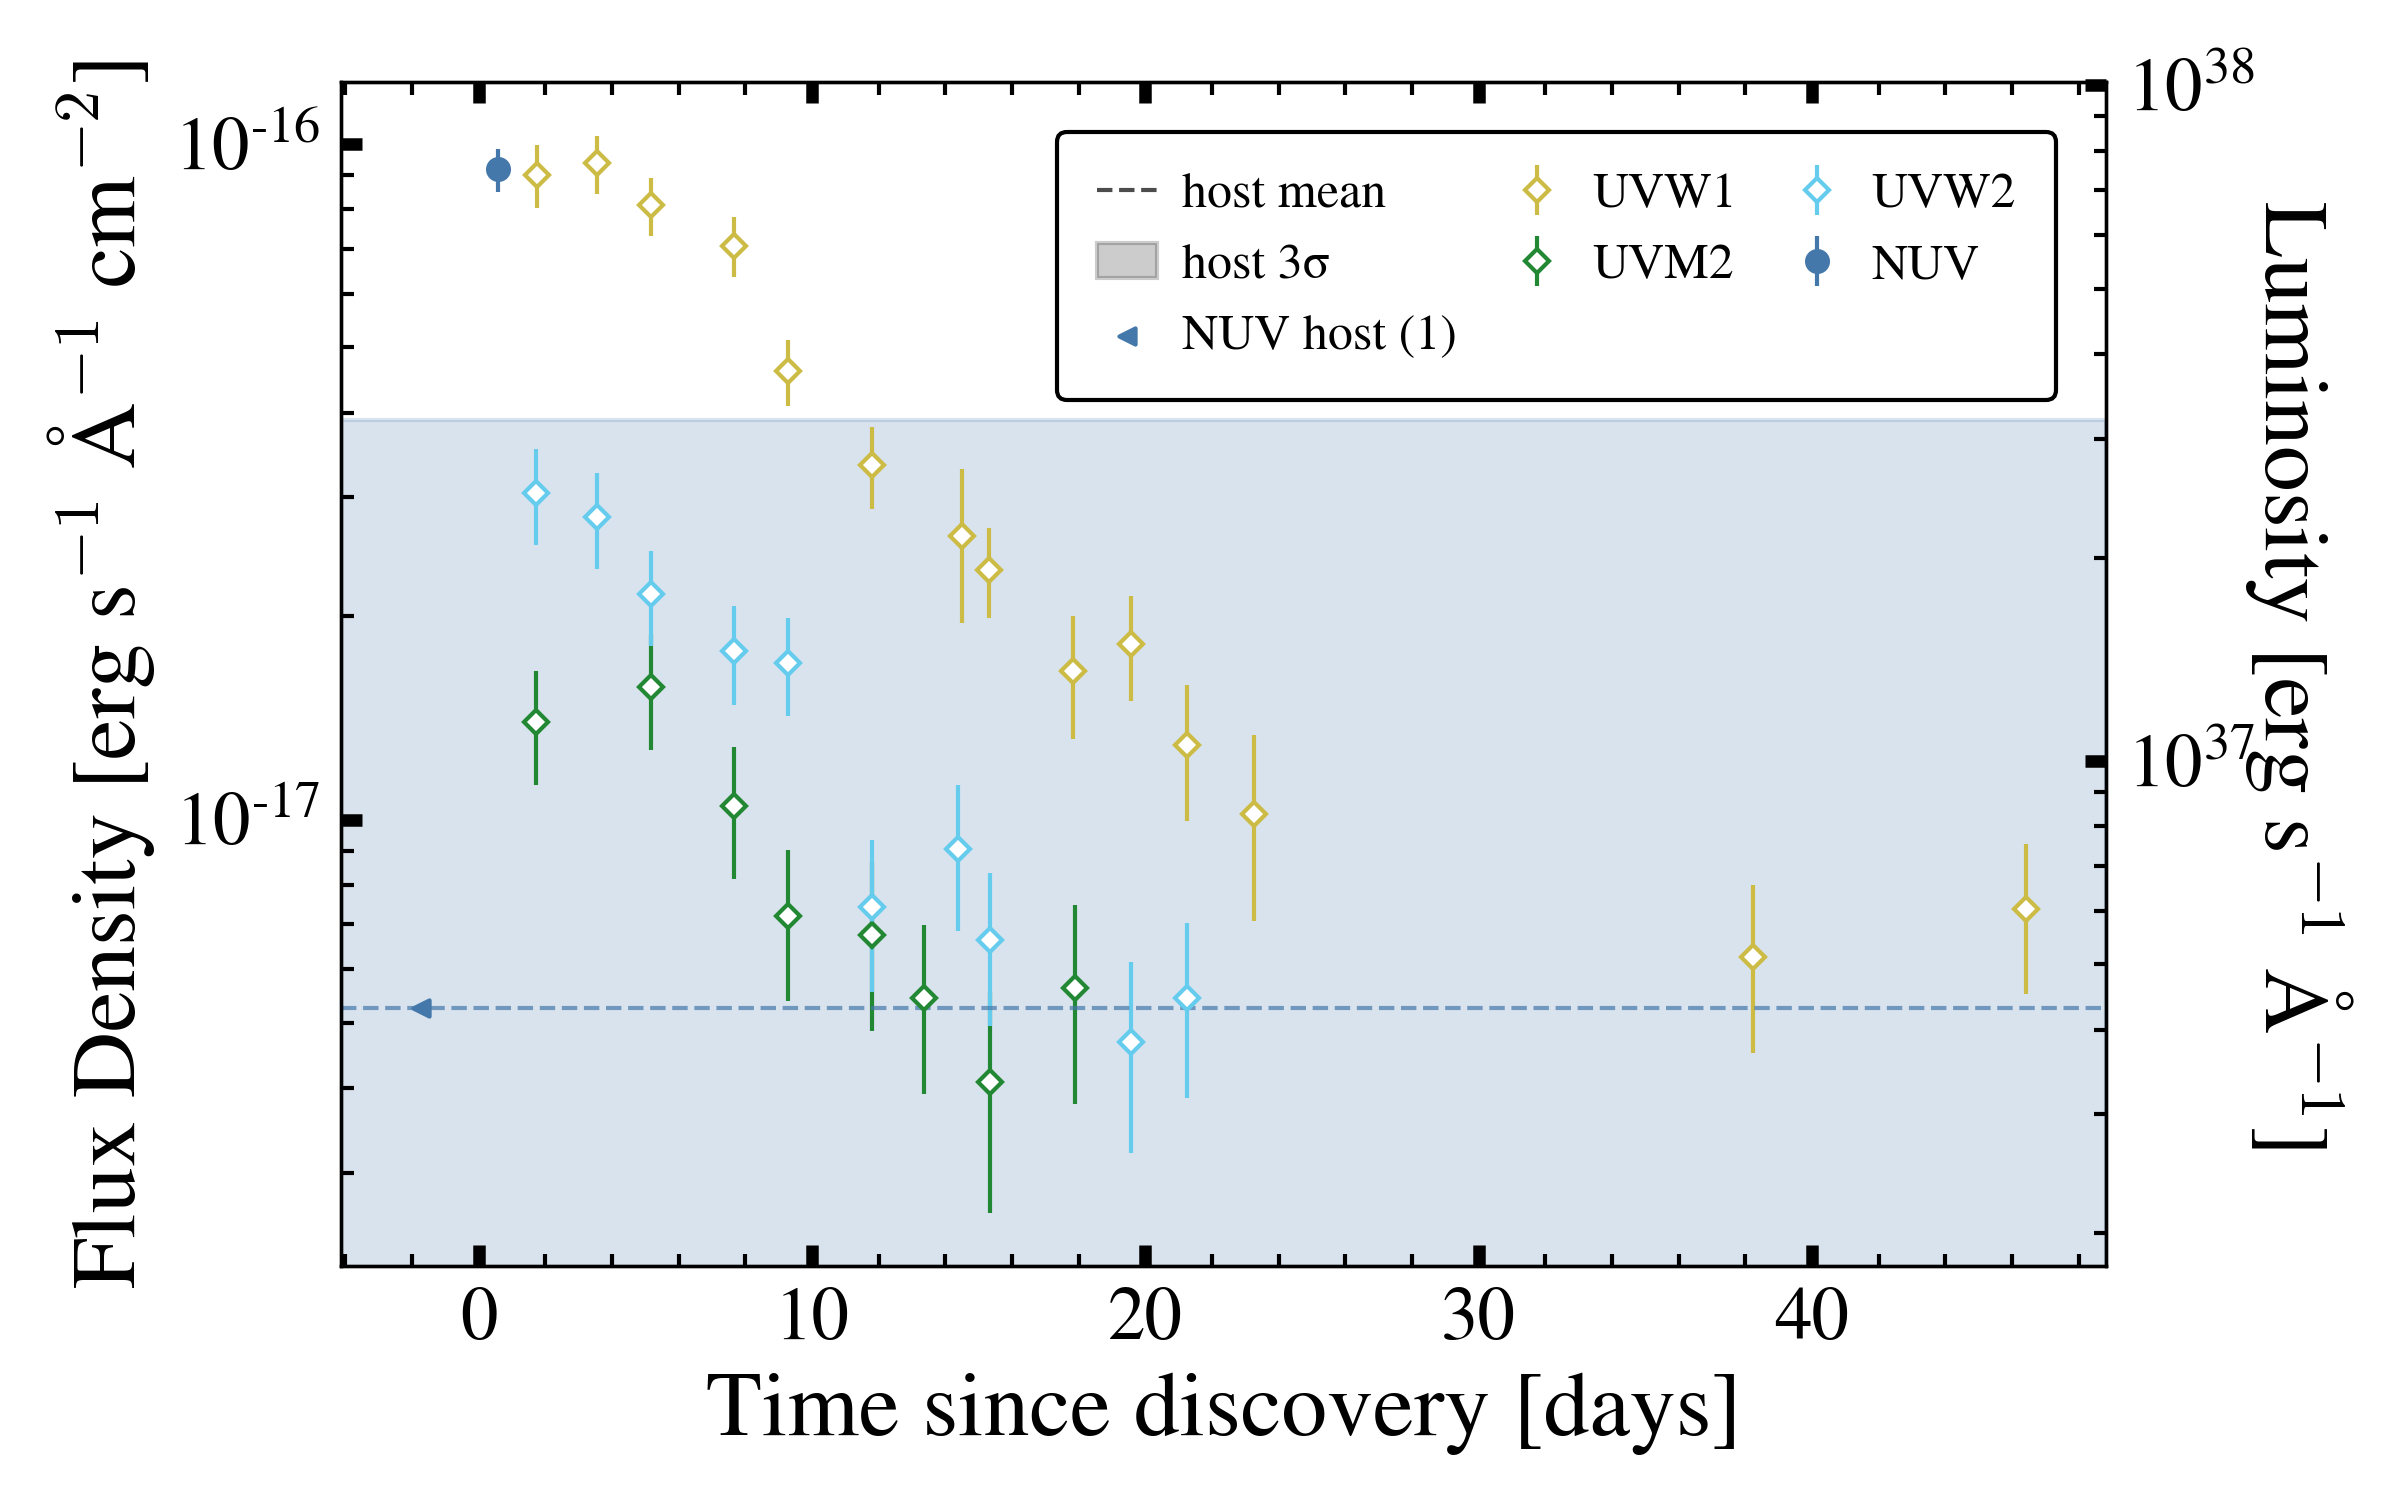
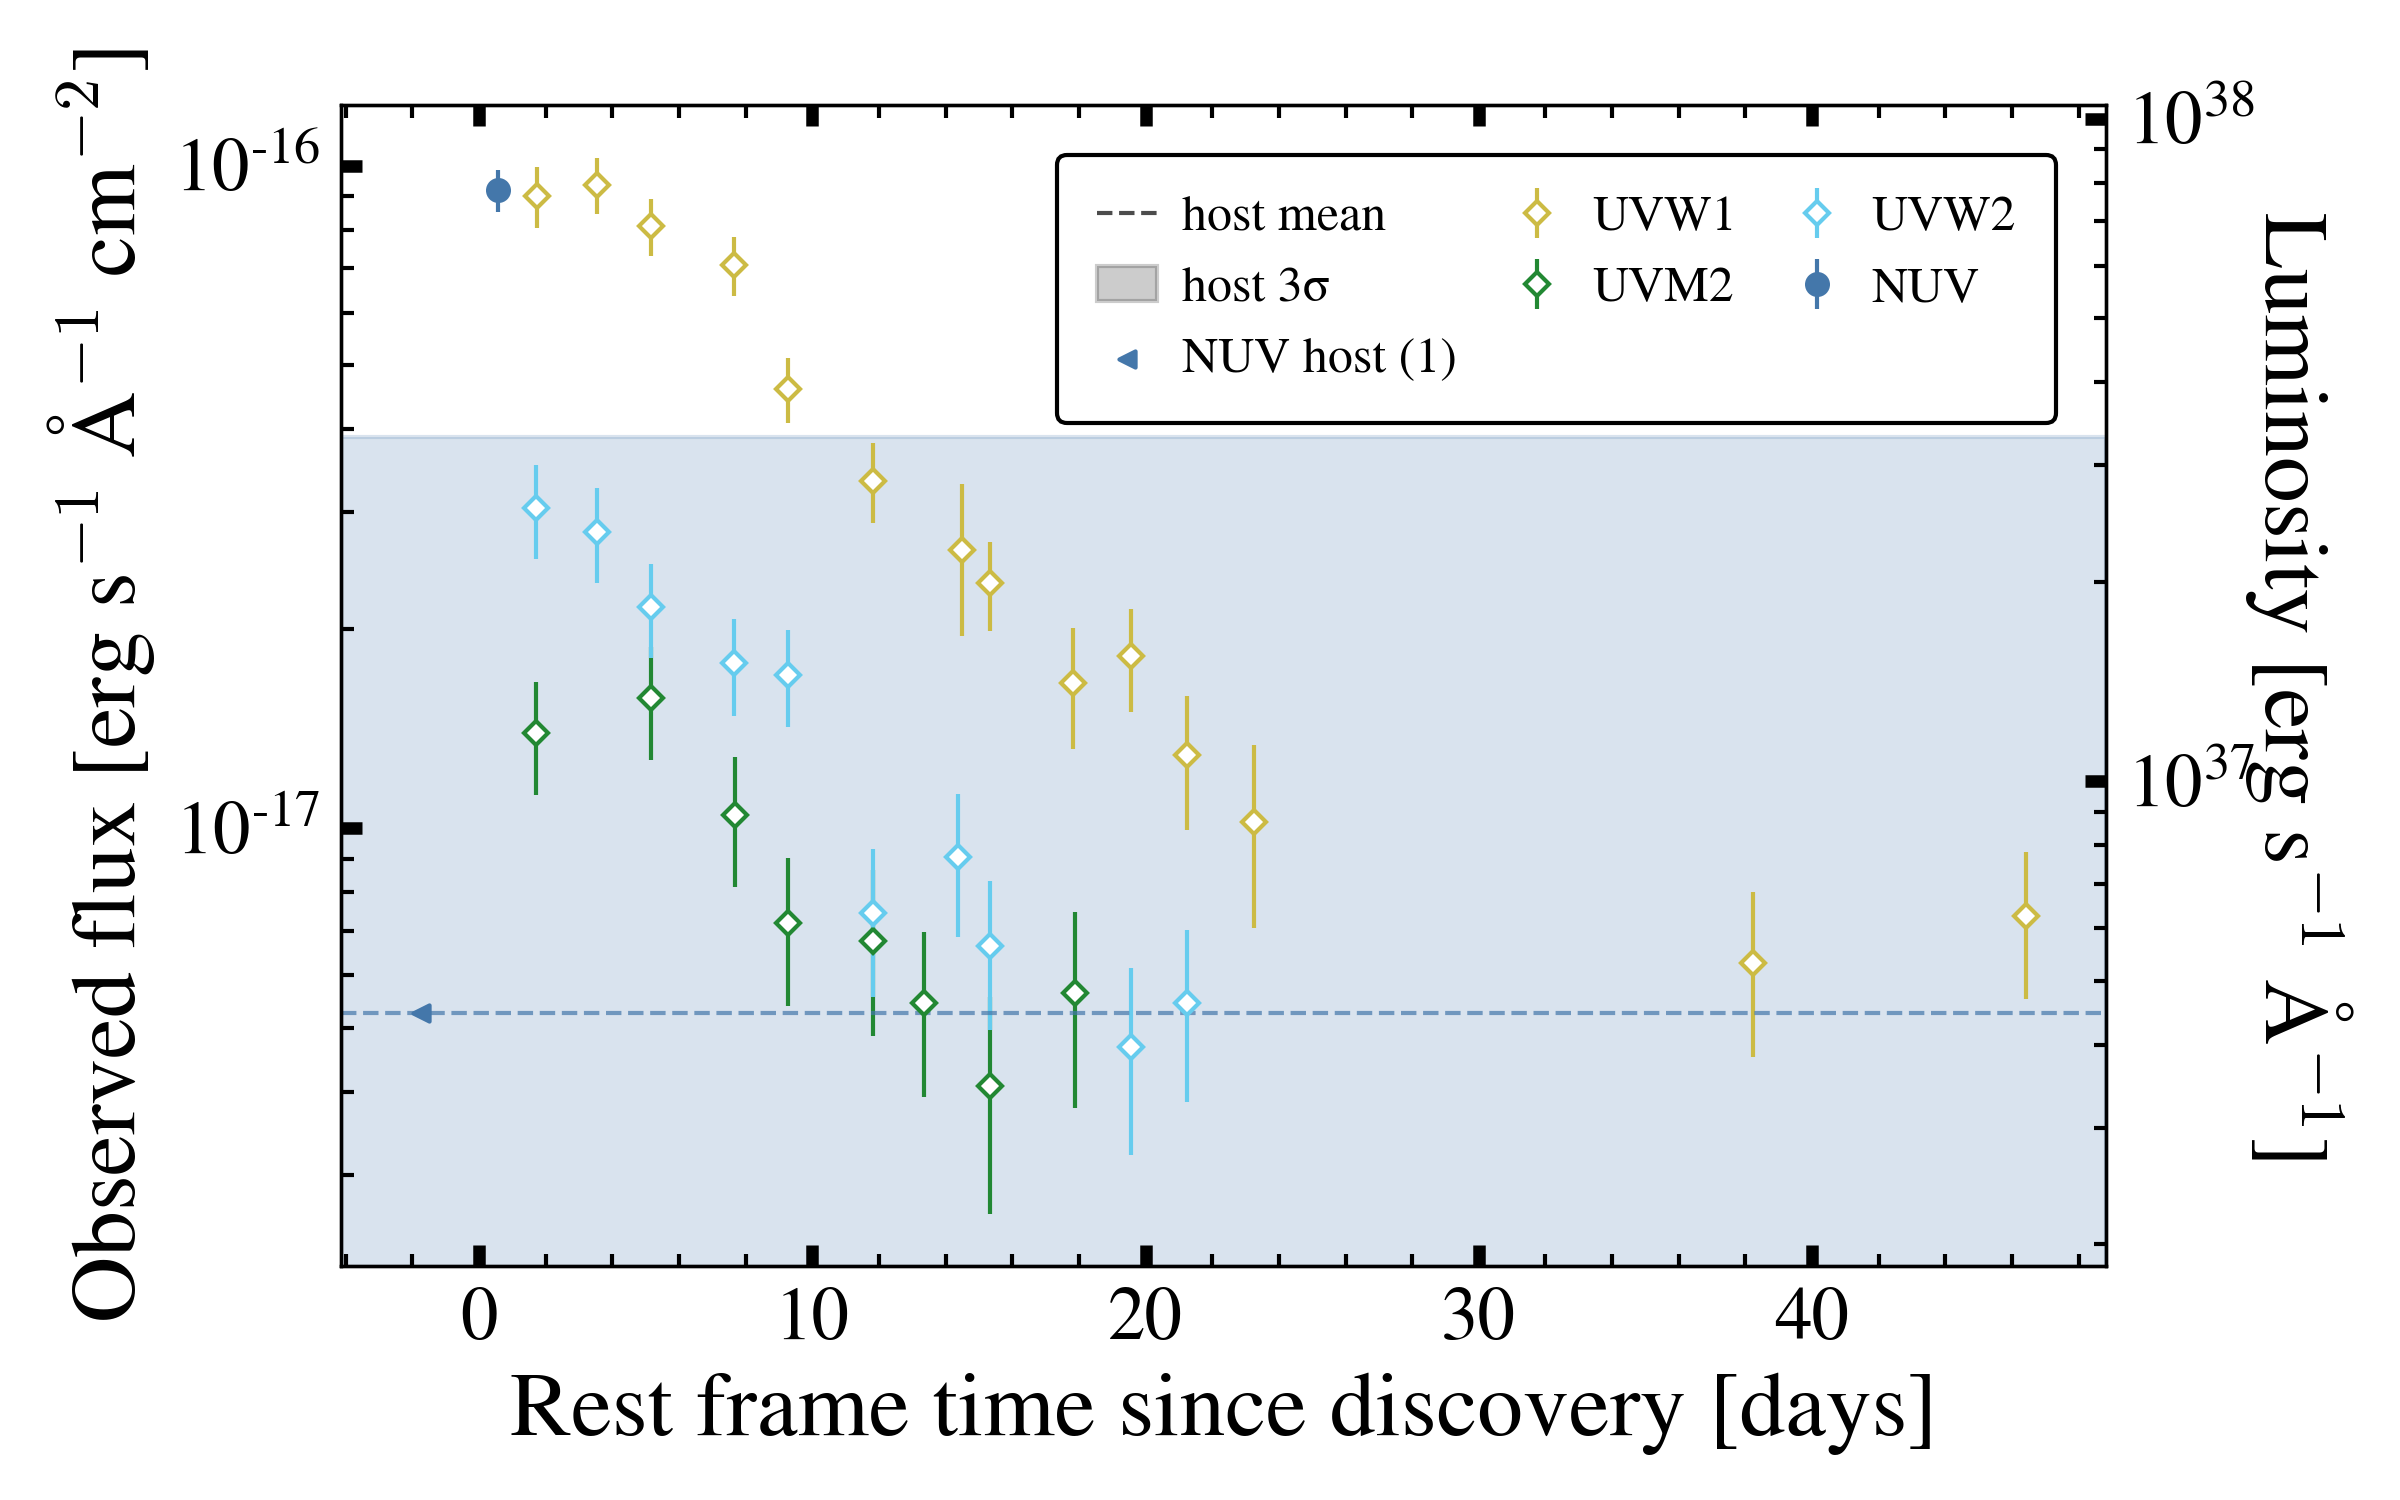
added script to automatically regenerate all important lc plots

diff --git a/fancy_plot.py b/fancy_plot.py
@@ -12,7 +12,7 @@ from pathlib import Path
 def main():
 
     parser = argparse.ArgumentParser(description='Generate publication-quality plots of light curves for individual SNe.')
-    parser.add_argument('sne', metavar='SN', type=str, nargs='+', help='supernova name')
+    parser.add_argument('sne', metavar='SN', type=str, nargs='+', help='supernova name(s)')
     parser.add_argument('-b', '--band', type=str, choices=['FUV', 'NUV', 'both'], 
             default='both', help='GALEX bands to plot')
     parser.add_argument('-s', '--sigma', type=float, default=3, 
@@ -23,9 +23,9 @@ def main():
             help='path to sn info csv file', metavar='file.csv')
     parser.add_argument('-S', '--show', action='store_true',
             help='show each plot before saving')
-    parser.add_argument('-o', '--output', type=Path, default=Path('figs/'),
-            help='output directory', metavar='dir')
-    parser.add_argument('-e', '--external', action='store_true',
+    parser.add_argument('-o', '--output', type=Path, nargs='+',
+            help='output file(s)', metavar='plot.png')
+    parser.add_argument('-e', '--external', type=str, choices=['swift', 'panstarrs', 'all'],
             help='also plot external light curves')
     parser.add_argument('-l', '--log', action='store_true',
             help='plot light curves in log(flux)')
@@ -36,17 +36,17 @@ def main():
     parser.add_argument('--notitle', action='store_true', help='omit axis title')
     args = parser.parse_args()
 
+    if args.output is None or len(args.output) != len(args.sne):
+        args.output = [Path('figs/%s.png' % sn) for sn in args.sne]
+
     sn_info = pd.read_csv(args.info, index_col='name')
 
-    for sn in args.sne:
-        try:
-            plot(sn, sn_info, args)
-        except FileNotFoundError:
-            print('%s is missing at least one LC file! Skipping for now.' % sn)
-            continue
+    for sn, output in zip(args.sne, args.output):
+        print('\nPlotting %s to %s...' % (sn, output))
+        plot(sn, sn_info, args, output)
 
 
-def plot(sn, sn_info, args):
+def plot(sn, sn_info, args, output):
     """
     Plots light curve(s) for given SN
     Inputs:
@@ -82,11 +82,12 @@ def plot(sn, sn_info, args):
         yscale = 1 / (10**flux_exp)
 
     # Plot external light curves (e.g. Swift)
-    if args.external:
+    if args.external == 'swift' or args.external == 'all':
         try:
             ax = plot_swift(ax, sn, sn_info, yscale, args)
         except (ValueError, FileNotFoundError):
             print('%s is missing a Swift data entry!' % sn)
+    if args.external == 'panstarrs' or args.external == 'all':
         try:
             ax = plot_panstarrs(ax, sn, sn_info, yscale, args)
         except (ValueError, FileNotFoundError):
@@ -181,7 +182,7 @@ def plot(sn, sn_info, args):
     luminosity_ax.set_ylabel('Luminosity [%serg s$^{-1}$ Å$^{-1}$]' % luminosity_exp_text, 
             rotation=270, labelpad=24)
 
-    plt.savefig(args.output / Path('%s.png' % sn), dpi=300)
+    plt.savefig(output, dpi=300)
     if args.show: plt.show()
 
 

diff --git a/detections.py b/detections.py
@@ -147,7 +147,7 @@ def detect_sn(sn, sn_info, args):
         if xmax > 0 and len(lc.index) > 0:
             ax.set_xlabel('Observed time since discovery [days]')
             ax.set_xlim((xmin - 50, xmax + 50))
-            ax.set_ylabel('Observed flux density [erg s^-1 Å^-1 cm^-2]')
+            ax.set_ylabel('Observed flux [erg s^-1 Å^-1 cm^-2]')
             plt.legend()
             fig.suptitle(sn)
             # Save full figure
